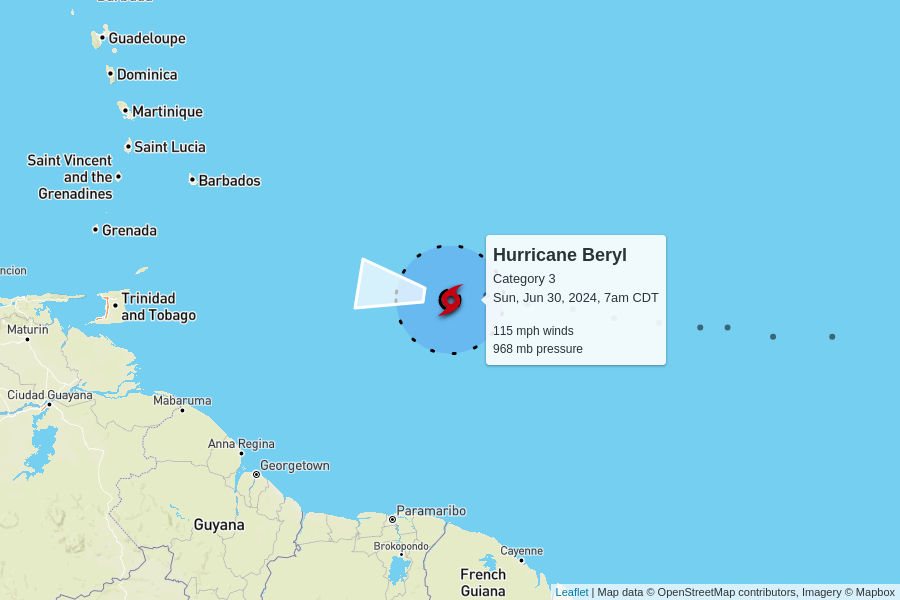
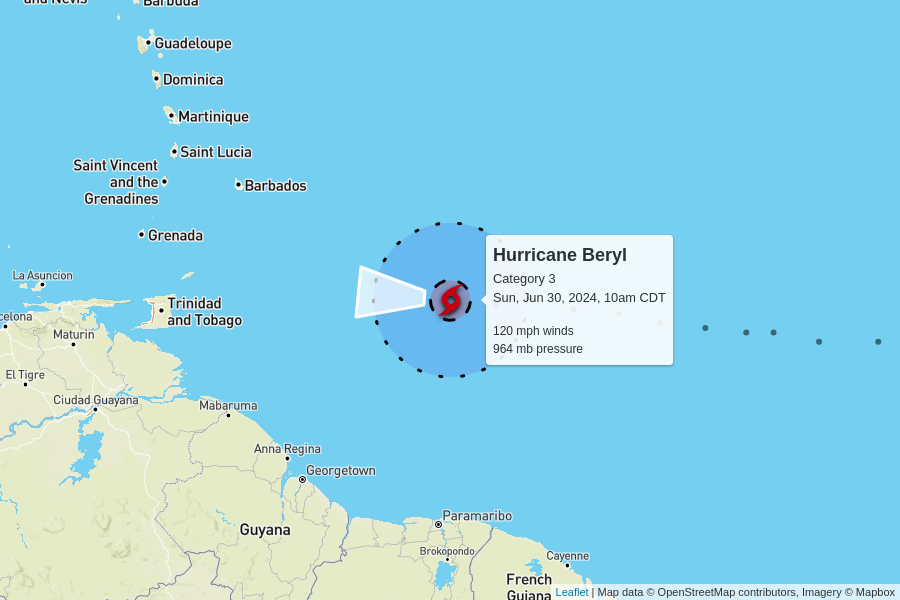
automatic update

diff --git a/docs/index.html b/docs/index.html
@@ -102,7 +102,7 @@
         <td colspan="6" class="storm category-3" >
           <h2>
             Hurricane Beryl - Category 3
-            <p class="updated">last updated <span data-time>2024-06-30T12:00:00.000Z</span></p>
+            <p class="updated">last updated <span data-time>2024-06-30T15:00:00.000Z</span></p>
           </h2>
         </td>
       </tr>
@@ -117,12 +117,12 @@
       </tr>
       <tr>
         <td class="spacer"></td>
-        <td>115 mph<br>+15 mph since last update</td>
-        <td>968 mb<br>-13 mb since last update</td>
+        <td>120 mph<br>+5 mph since last update</td>
+        <td>964 mb<br>-4 mb since last update</td>
         <td>
           21 mph to the west
           <br/>
-          <span style="display: inline-block; font-size: 1.5em; transform: rotate(280deg);">↑</span>
+          <span style="display: inline-block; font-size: 1.5em; transform: rotate(275deg);">↑</span>
         </td>
         <td><a href="https://raw.githubusercontent.com/mgwalker/atlantic-hurricanes/main/data/csv/AL022024.csv">AL022024.csv</a></td>
         <td><a href="https://www.nhc.noaa.gov/archive/2024/BERYL.shtml?">NHC advisories</a></td>
